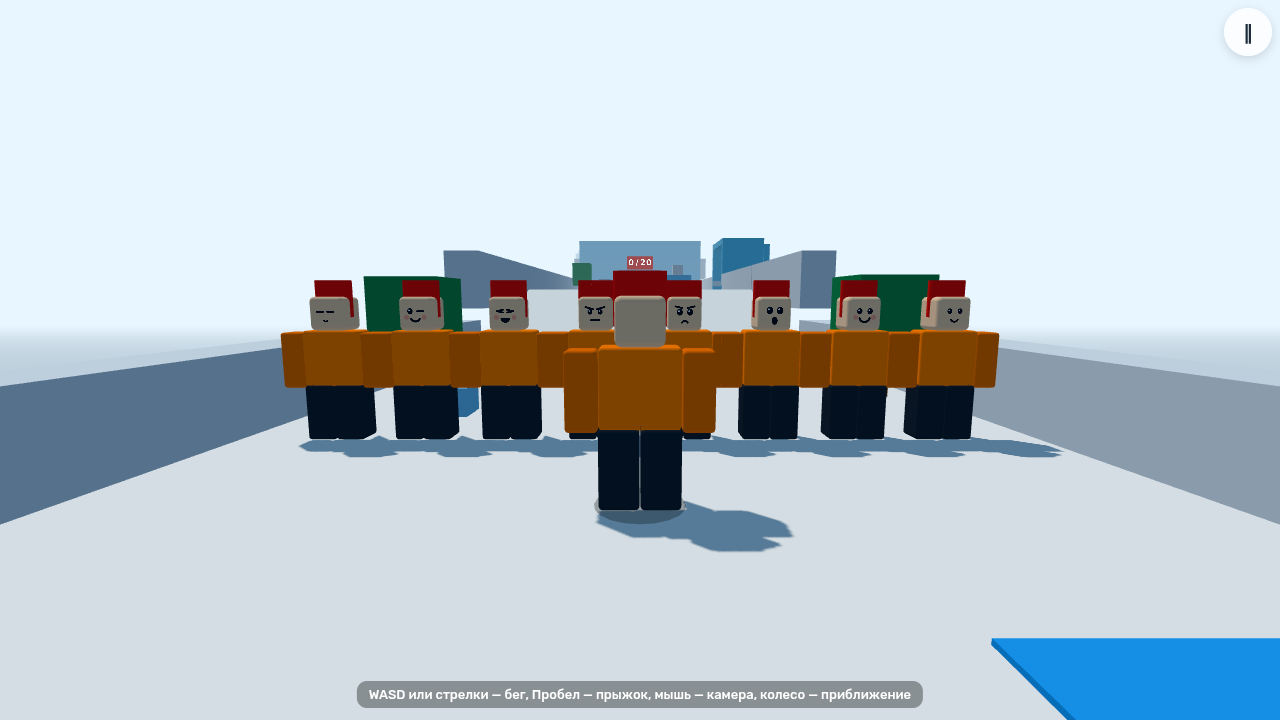
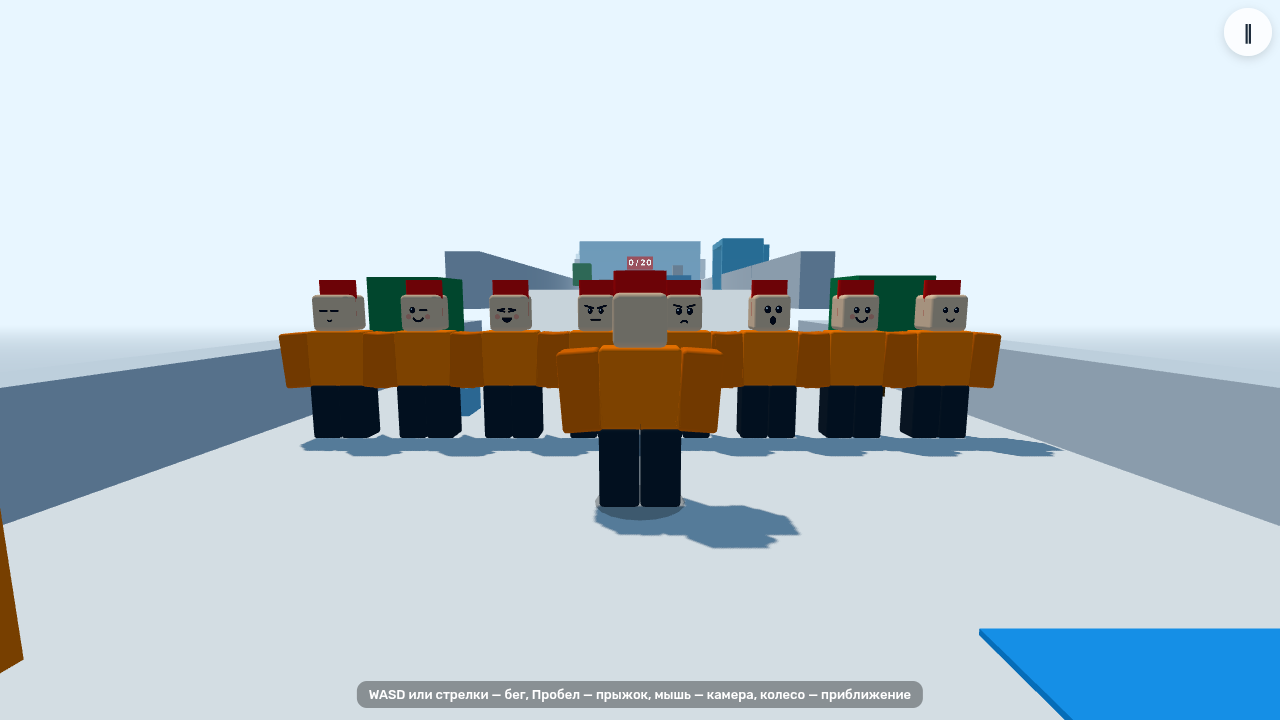
Герой: пропорции по эталону продюсера, наклон рук; правила общения в CLAUDE.md
Claude-Session: https://claude.ai/code/session_01N5BzsNeL38veQydPTVkWfe

diff --git a/src/render/characters.ts b/src/render/characters.ts
@@ -27,12 +27,13 @@ import type { AccessoriesJson, SkinsJson } from '../content/types.ts';
 export const FACES = ['neutral', 'happy', 'wow', 'scared', 'determined', 'laugh', 'wink', 'sleep'] as const;
 export type FaceName = (typeof FACES)[number];
 
-/** Proportions of every blocky character, one place (Q-019, Q-021): classic avatar of the niche — head 1.2, torso 2×2×0.9,
- * legs 1×2×1, arms 0.8×2×0.8 right against the torso (gap 0.02). K scales the 5.2-unit figure to a ≈ 5-unit hero. */
+/** Proportions of every blocky character, one place (Q-019, Q-021, producer's reference 04.10): classic blocky avatar —
+ * head 1.3, torso 2×2×1, arms and legs 1×2×1, arms right against the torso (gap 0.02) and tilted 4° outward from the
+ * shoulder so they read as hanging, not glued. K scales the 5.3-unit figure to a ≈ 5-unit hero. */
 const K = 0.95;
-const P = { head: 1.2, torso: { w: 2.0, h: 2.0, d: 0.9 }, arm: { w: 0.8, h: 2.0, d: 0.8 }, leg: { w: 1.0, h: 2.0, d: 1.0 }, armGap: 0.02, legGap: 0.01 };
+const P = { head: 1.3, torso: { w: 2.0, h: 2.0, d: 1.0 }, arm: { w: 1.0, h: 2.0, d: 1.0 }, leg: { w: 1.0, h: 2.0, d: 1.0 }, armGap: 0.02, legGap: 0.01, armTiltRad: 0.07 };
 const box = (b: { w: number; h: number; d: number }) => ({ w: b.w * K, h: b.h * K, d: b.d * K });
-export const PART = { head: P.head * K, torso: box(P.torso), arm: box(P.arm), leg: box(P.leg), armGap: P.armGap * K, legGap: P.legGap * K };
+export const PART = { head: P.head * K, torso: box(P.torso), arm: box(P.arm), leg: box(P.leg), armGap: P.armGap * K, legGap: P.legGap * K, armTiltRad: P.armTiltRad };
 const FACE_CELL = 128;
 
 export type CharacterPose = 'idle' | 'run' | 'jump' | 'fall' | 'land' | 'cover' | 'win' | 'ball';
@@ -412,7 +413,7 @@ if (vObjNormal.z > 0.6) {
           [1, armR, 1],
         ] as const) {
           _dummy.position.set(sx * (PART.torso.w / 2 + PART.arm.w / 2 + PART.armGap), armPivotY, 0);
-          _dummy.rotation.set(rot, 0, 0);
+          _dummy.rotation.set(rot, 0, -sx * PART.armTiltRad);
           _dummy.updateMatrix();
           const pivot = _dummy.matrix.clone();
           _dummy.position.set(0, -PART.arm.h / 2 + 0.1, 0);

diff --git a/progress.md b/progress.md
@@ -37,6 +37,11 @@
 
 ## Записи
 
+### 2026-10-04 · герой под эталон продюсера (Q-021, уточнение)
+- Сделано: голова 1,3, торс 2×2×1, конечности 1×2×1, руки вплотную и с наклоном 4° наружу (`armTiltRad` в `P`); правила общения с продюсером дополнены в `CLAUDE.md` (тон, «чат закрываем», стартовая фраза блоком кода)
+- Тесты: typecheck — ок; e2e `characters` — 2 прошло, `docs/evidence/M2/hero.png` пересняли
+- Дальше: M2-03
+
 ### 2026-10-04 · M2-02 · ледяные стены с числом
 - Сделано: `src/sim/gates.ts` — требование `wall(p) × wallScale[n] × ease(p)` (ease только на ступенях ≥ 1 от стены 37); в `Sim` список `gatesOpen`, закрытые стены — динамические коллайдеры, открытая убирается из них и шлёт `gateOpen`; стена тает в арку за 0,4 с (`setGateOpen`), табличка считает «15/20» и зеленеет (`setGateSign`, цвет через instanceColor, у материала белая база), атлас цифр получил «/» и 10 знаков на табличку; события воронки `gate_1…gate_9` для горы 1 на ступени 0; `__TEST__.state().gatesOpen`, `__TEST__.gateSign(i)`
 - Тесты: `tests/sim/gates.test.ts` — 3 (на 1 меньше — закрыта, равно — открыта; ступени 0 и 3 = wall × wallScale; в симуляции закрытая стена держит героя, после набора числа — пропускает); `npm test` — 72 прошло; e2e `gates.spec.ts` — табличка «N/20» → «20» зелёная, герой проходит, `gate_1` один раз, скриншот `docs/evidence/M2/gate_1920x1080_ru.png`; весь e2e — 37 прошло + 2 исправленных (`debug` ожидание скорости теперь по кривой от стата, `gates` старт с z = 30: число набирается на подходе, у закрытой стены пути нет и шагов нет)

diff --git a/CLAUDE.md b/CLAUDE.md
@@ -97,6 +97,8 @@
 - Ощущение игры (прыжок, бег, камера) продюсер описывает словами и сравнивает с играми каталога; ты переводишь это в числа `tuning.json`, выкладываешь и просишь сравнить снова.
 - Эталоны и сбор данных: продюсер записывает видео, когда это экономит время (ощущение игры, онбординг, темп); когда нужно много экранов интерфейса, магазин, цифры — сборщик сам открывает игру и снимает скриншоты, если сессия это позволяет (в облаке домены Яндекса закрыты — тогда просит видео). Кадры чужих игр живут только в scratchpad, в репозиторий не попадают (правило 9).
 - Любой способ сэкономить время продюсера или кредиты сборщик предлагает сам, не дожидаясь вопроса.
+- Личные правила продюсера действуют и здесь: дружелюбно и с юмором к месту, не сухо; в конце — следующий шаг с вариантами и рекомендацией первой
+- Чат стал длинным или ходы кончились — скажи прямо «этот чат закрываем» и дай стартовую фразу для новой сессии отдельным блоком кода (у него есть кнопка «Скопировать»), не строкой в тексте
 - Ответы продюсера дороги: вопросов как можно меньше, и все сразу одним блоком (несколько тем за раз с рекомендацией по каждой), а не по одному «продолжаем или остаёмся?». Что можно решить самому — решай и записывай в `QUESTIONS.md`.
 
 ## Экономия кредита и контекста

diff --git a/QUESTIONS.md b/QUESTIONS.md
@@ -160,3 +160,4 @@
 - Статус: решён
 - Ответ продюсера (04.10): герой всё ещё выглядит массивным, руки сделать чуть уже; сверить силуэт с классическим блочным аватаром большинства игр ниши. Делается первым шагом M2 (стартовая фраза новой сессии).
 - Сделано (04.10, M2, первый шаг): пропорции в одном месте `src/render/characters.ts` (`P`): голова 1,2, торс 2×2×0,9, ноги 1×2×1, руки 0,8×2×0,8 вплотную к торсу (зазор 0,02); ширина силуэта 4,24 → 3,64 ед. Скриншот `docs/evidence/M2/hero.png` (e2e `characters.spec.ts`)
+- Уточнение продюсера (04.10, скриншот-эталон): нужен силуэт классического блочного человечка. Сделано: голова 1,3, торс 2×2×1, руки и ноги 1×2×1, руки вплотную к торсу и отведены на 4° от плеча. Массивность давала не ширина рук, а маленькая голова и камера сверху; свой glTF или модель из сети не нужны — пропорции и аксессуары остаются данными и кодом из 6 частей
